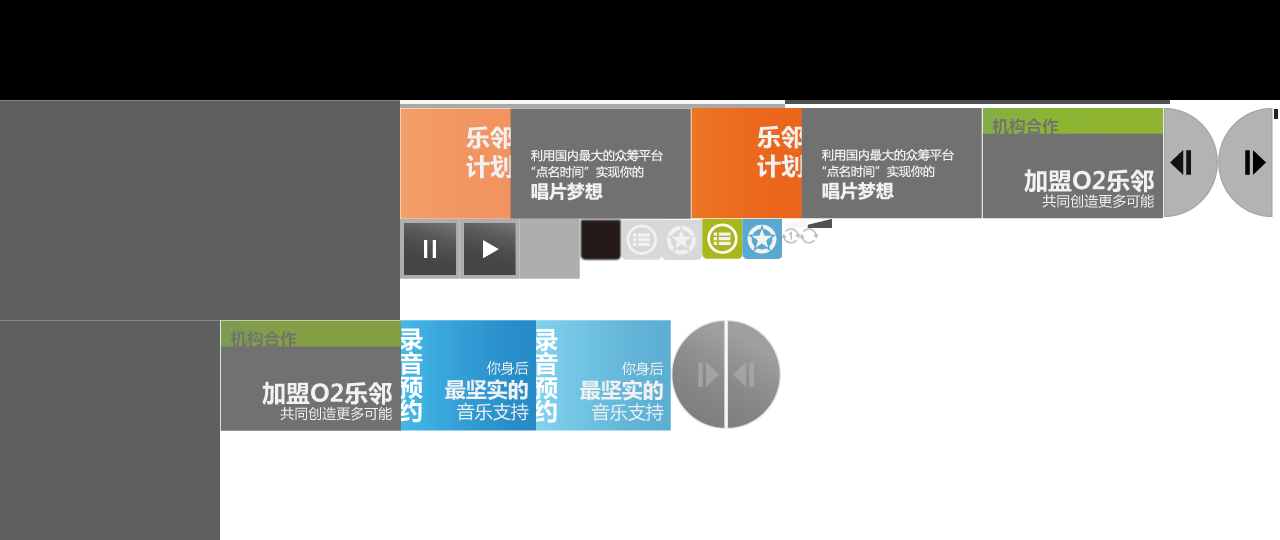
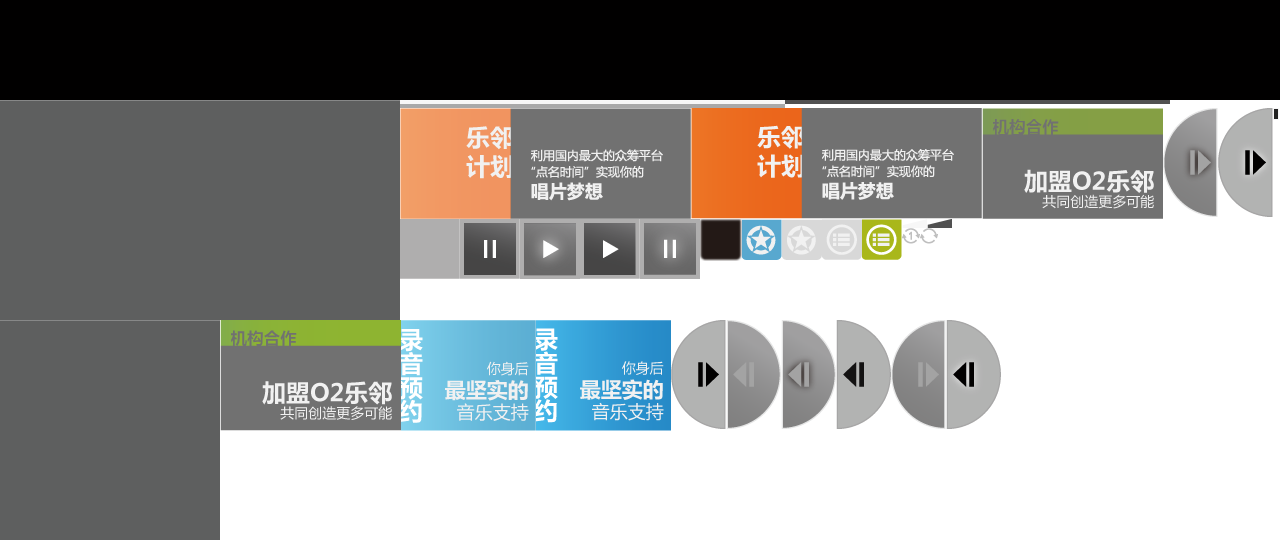
ui 调整

Changed region(s): [[0.2188, 0.5926, 0.7812, 0.8], [0.3125, 0.3852, 0.75, 0.5333], [0.8125, 0.2074, 0.9688, 0.4148]]

diff --git a/images/icons.css b/images/icons.css
@@ -2,40 +2,46 @@
 
         Creating a sprite from following images:
         
-        ./icons/strip-blank.png (1280x100)
-        ./icons/gray-rectangle.png (400x220)
-        ./icons/prog-white.png (385x4)
-        ./icons/prog-blank.png (385x4)
-        ./icons/prog-load.png (385x4)
-        ./icons/o2-plan-focus.png (291x111)
-        ./icons/o2-plan.png (291x111)
-        ./icons/gray-square.png (220x220)
-        ./icons/o2-coop.png (181x111)
-        ./icons/o2-coop-focus.png (181x111)
-        ./icons/o2-record.png (135x111)
-        ./icons/o2-record-focus.png (135x111)
-        ./icons/prev-focus.png (55x109)
-        ./icons/next-focus.png (55x109)
-        ./icons/next.png (55x109)
-        ./icons/prev.png (55x109)
-        ./icons/pause.png (60x60)
-        ./icons/play.png (60x60)
-        ./icons/sqare-gray.png (60x60)
-        ./icons/shadow.png (42x42)
-        ./icons/list-gray.png (40x41)
-        ./icons/star-gray.png (40x41)
-        ./icons/list-green.png (40x40)
-        ./icons/star-blue.png (40x40)
-        ./icons/volumn-white.png (25x9)
-        ./icons/volumn.png (25x9)
-        ./icons/cycle.png (18x16)
-        ./icons/uncycle.png (18x16)
-        ./icons/prog-cover.png (6x12)
-        ./icons/speaker-white.png (8x10)
+        icons/strip-blank.png (1280x100)
+        icons/gray-rectangle.png (400x220)
+        icons/prog-white.png (385x4)
+        icons/prog-blank.png (385x4)
+        icons/prog-load.png (385x4)
+        icons/o2-plan-focus.png (291x111)
+        icons/o2-plan.png (291x111)
+        icons/gray-square.png (220x220)
+        icons/o2-coop-focus.png (181x111)
+        icons/o2-coop.png (181x111)
+        icons/o2-record-focus.png (135x111)
+        icons/o2-record.png (135x111)
+        icons/next-hv.png (55x109)
+        icons/next-focus-hv.png (55x109)
+        icons/next-focus.png (55x109)
+        icons/prev.png (55x109)
+        icons/prev-hv.png (55x109)
+        icons/prev-focus.png (55x109)
+        icons/next.png (55x109)
+        icons/prev-focus-hv.png (55x109)
+        icons/sqare-gray.png (60x60)
+        icons/pause.png (60x60)
+        icons/play-hv.png (60x60)
+        icons/play.png (60x60)
+        icons/pause-hv.png (60x60)
+        icons/shadow.png (42x42)
+        icons/star-blue.png (40x41)
+        icons/star-gray.png (40x41)
+        icons/list-gray.png (40x41)
+        icons/list-green.png (40x41)
+        icons/volumn-white.png (25x9)
+        icons/volumn.png (25x9)
+        icons/cycle.png (18x16)
+        icons/uncycle.png (18x16)
+        icons/prog-cover.png (6x12)
+        icons/speaker-white.png (8x10)
 
         Output files:
-          ./icons.png
-          ./icons.css
+          icons.png
+          icons.css
 
         Output size:
           1280x540
@@ -50,25 +56,31 @@ div.prog-load { width: 385px; height: 4px; background: url(icons.png) -400px -10
 div.o2-plan-focus { width: 291px; height: 111px; background: url(icons.png) -400px -108px no-repeat; }
 div.o2-plan { width: 291px; height: 111px; background: url(icons.png) -691px -108px no-repeat; }
 div.gray-square { width: 220px; height: 220px; background: url(icons.png) 0px -320px no-repeat; }
-div.o2-coop { width: 181px; height: 111px; background: url(icons.png) -982px -108px no-repeat; }
-div.o2-coop-focus { width: 181px; height: 111px; background: url(icons.png) -220px -320px no-repeat; }
-div.o2-record { width: 135px; height: 111px; background: url(icons.png) -401px -320px no-repeat; }
-div.o2-record-focus { width: 135px; height: 111px; background: url(icons.png) -536px -320px no-repeat; }
-a.prev-focus { width: 55px; height: 109px; background: url(icons.png) -1163px -108px no-repeat; }
-a.next-focus { width: 55px; height: 109px; background: url(icons.png) -1218px -108px no-repeat; }
-a.next { width: 55px; height: 109px; background: url(icons.png) -671px -320px no-repeat; }
-a.prev { width: 55px; height: 109px; background: url(icons.png) -726px -320px no-repeat; }
-div.pause { width: 60px; height: 60px; background: url(icons.png) -400px -219px no-repeat; }
-div.play { width: 60px; height: 60px; background: url(icons.png) -460px -219px no-repeat; }
-div.sqare-gray { width: 60px; height: 60px; background: url(icons.png) -520px -219px no-repeat; }
-div.shadow { width: 42px; height: 42px; background: url(icons.png) -580px -219px no-repeat; }
-div.list-gray { width: 40px; height: 41px; background: url(icons.png) -622px -219px no-repeat; }
-div.star-gray { width: 40px; height: 41px; background: url(icons.png) -662px -219px no-repeat; }
-div.list-green { width: 40px; height: 40px; background: url(icons.png) -702px -219px no-repeat; }
-div.star-blue { width: 40px; height: 40px; background: url(icons.png) -742px -219px no-repeat; }
-div.volumn-white { width: 25px; height: 9px; background: url(icons.png) -782px -219px no-repeat; }
-div.volumn { width: 25px; height: 9px; background: url(icons.png) -807px -219px no-repeat; }
-div.cycle { width: 18px; height: 16px; background: url(icons.png) -782px -228px no-repeat; }
-div.uncycle { width: 18px; height: 16px; background: url(icons.png) -800px -228px no-repeat; }
+div.o2-coop-focus { width: 181px; height: 111px; background: url(icons.png) -982px -108px no-repeat; }
+div.o2-coop { width: 181px; height: 111px; background: url(icons.png) -220px -320px no-repeat; }
+div.o2-record-focus { width: 135px; height: 111px; background: url(icons.png) -401px -320px no-repeat; }
+div.o2-record { width: 135px; height: 111px; background: url(icons.png) -536px -320px no-repeat; }
+div.next-hv { width: 55px; height: 109px; background: url(icons.png) -1163px -108px no-repeat; }
+div.next-focus-hv { width: 55px; height: 109px; background: url(icons.png) -1218px -108px no-repeat; }
+div.next-focus { width: 55px; height: 109px; background: url(icons.png) -671px -320px no-repeat; }
+div.prev { width: 55px; height: 109px; background: url(icons.png) -726px -320px no-repeat; }
+div.prev-hv { width: 55px; height: 109px; background: url(icons.png) -781px -320px no-repeat; }
+div.prev-focus { width: 55px; height: 109px; background: url(icons.png) -836px -320px no-repeat; }
+div.next { width: 55px; height: 109px; background: url(icons.png) -891px -320px no-repeat; }
+div.prev-focus-hv { width: 55px; height: 109px; background: url(icons.png) -946px -320px no-repeat; }
+div.sqare-gray { width: 60px; height: 60px; background: url(icons.png) -400px -219px no-repeat; }
+div.pause { width: 60px; height: 60px; background: url(icons.png) -460px -219px no-repeat; }
+div.play-hv { width: 60px; height: 60px; background: url(icons.png) -520px -219px no-repeat; }
+div.play { width: 60px; height: 60px; background: url(icons.png) -580px -219px no-repeat; }
+div.pause-hv { width: 60px; height: 60px; background: url(icons.png) -640px -219px no-repeat; }
+div.shadow { width: 42px; height: 42px; background: url(icons.png) -700px -219px no-repeat; }
+div.star-blue { width: 40px; height: 41px; background: url(icons.png) -742px -219px no-repeat; }
+div.star-gray { width: 40px; height: 41px; background: url(icons.png) -782px -219px no-repeat; }
+div.list-gray { width: 40px; height: 41px; background: url(icons.png) -822px -219px no-repeat; }
+div.list-green { width: 40px; height: 41px; background: url(icons.png) -862px -219px no-repeat; }
+div.volumn-white { width: 25px; height: 9px; background: url(icons.png) -902px -219px no-repeat; }
+div.volumn { width: 25px; height: 9px; background: url(icons.png) -927px -219px no-repeat; }
+div.cycle { width: 18px; height: 16px; background: url(icons.png) -902px -228px no-repeat; }
+div.uncycle { width: 18px; height: 16px; background: url(icons.png) -920px -228px no-repeat; }
 div.prog-cover { width: 6px; height: 12px; background: url(icons.png) -1273px -108px no-repeat; }
-div.speaker-white { width: 8px; height: 10px; background: url(icons.png) -818px -228px no-repeat; }
+div.speaker-white { width: 8px; height: 10px; background: url(icons.png) -938px -228px no-repeat; }

diff --git a/js/yuelink.js b/js/yuelink.js
@@ -164,6 +164,25 @@ function yuelink_initialize () {
 	$('#player #next').click(function () {
 		player.next();
 	});
+	$('#player #prev').hover(function() {
+		$(this).toggleClass('prev prev-focus-hv');
+	});
+	$('#player #next').hover(function() {
+		$(this).toggleClass('next next-focus-hv');
+	});
+	$('#playCtrl-button').mouseenter(function() {
+		if (player.isPaused) {
+			$('div', '#playCtrl-button').attr('class', 'play-hv');
+		} else {
+			$('div', '#playCtrl-button').attr('class', 'pause-hv');
+		}
+	}).mouseout(function() {
+		if (player.isPaused) {
+			$('div', '#playCtrl-button').attr('class', 'play');
+		} else {
+			$('div', '#playCtrl-button').attr('class', 'pause');
+		}
+	});
 	$('#playCtrl-volume').click(function(event) {
 		player.changeVolume(event);
 	});
@@ -408,7 +427,11 @@ var player = {
 		togglePause : function () {
 			soundManager.togglePause(this.log.current);
 			this.isPaused = !this.isPaused;
-			$('div', '#playCtrl-button').toggleClass('play pause');
+			if (this.isPaused) {
+				$('div', '#playCtrl-button').attr('class', 'play-hv');
+			} else {
+				$('div', '#playCtrl-button').attr('class', 'pause-hv');
+			}
 			return this.isPaused;
 		},
 		toggleCycle : function () {

diff --git a/index.html b/index.html
@@ -65,8 +65,8 @@
 		</a>
 	</div>
 	<div id="posterHolder"><ul id="posters"></ul></div>
-	<div id="prev"><a class='prev'></a></div>
-	<div id="next"><a class='next'></a></div>	
+	<div id="prev" class='prev'></div>
+	<div id="next" class='next'></div>	
 </div>
 
 <div id="wall" class="wall">
@@ -286,6 +286,11 @@
 	
 	yueConsole.showPlayer();
 	wall.loadInfo();
+	$.ajax({
+	type: 'GET',
+	url: 'http://www.yuelink.xxx/api/nodes/25.json?jsoncallback=?',
+	dataType: 'json'
+	});
 	
 	var soundManagerReadyCheck = setInterval(function(){
 		if (soundManagerReady) {

diff --git a/style/style.css b/style/style.css
@@ -234,9 +234,6 @@ div, a {
 #player #prev a {
   display: block;
 }
-#player #prev a:hover {
-  background: url(icons.png) -400px -211px no-repeat;
-}
 #player #next {
   right: 0px;
   position: absolute; top:37%;
@@ -244,10 +241,6 @@ div, a {
 #player #next a {
   display: block;
 }
-#player #next a:hover {
-  background: url(icons.png) -1163px -100px no-repeat;
-}
-
 
 #wall {
 	position:fixed; top:87px; bottom:0px;
